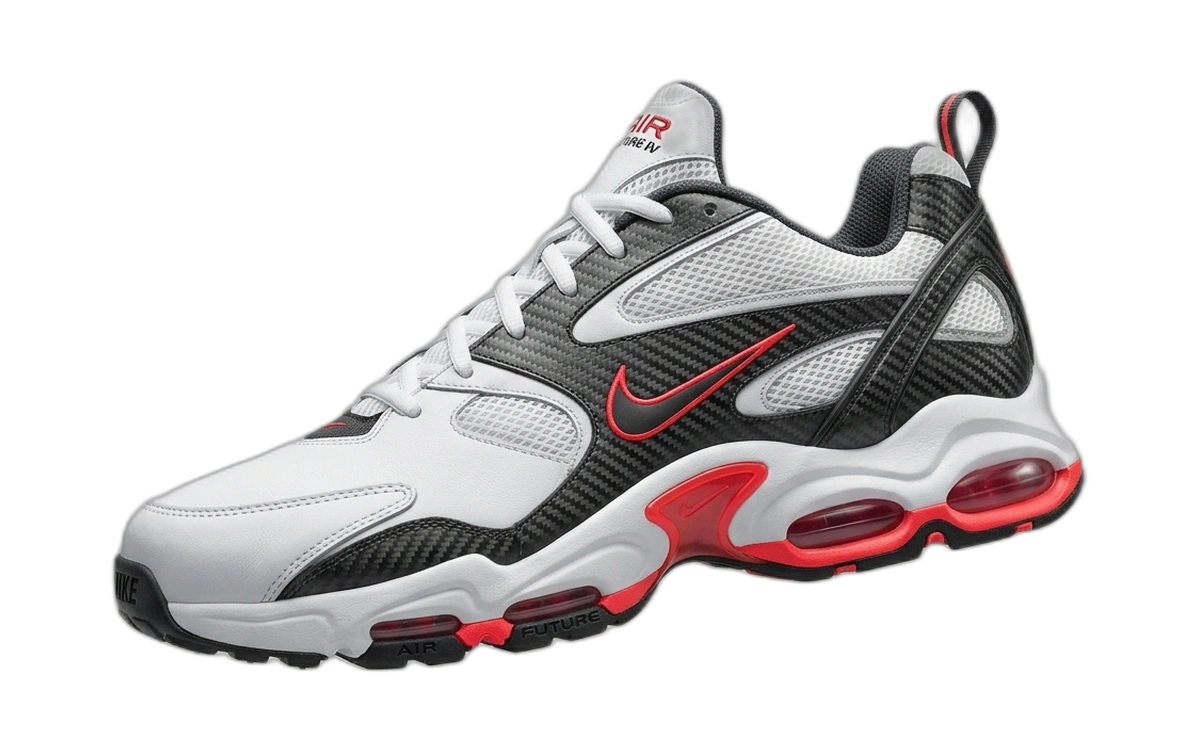
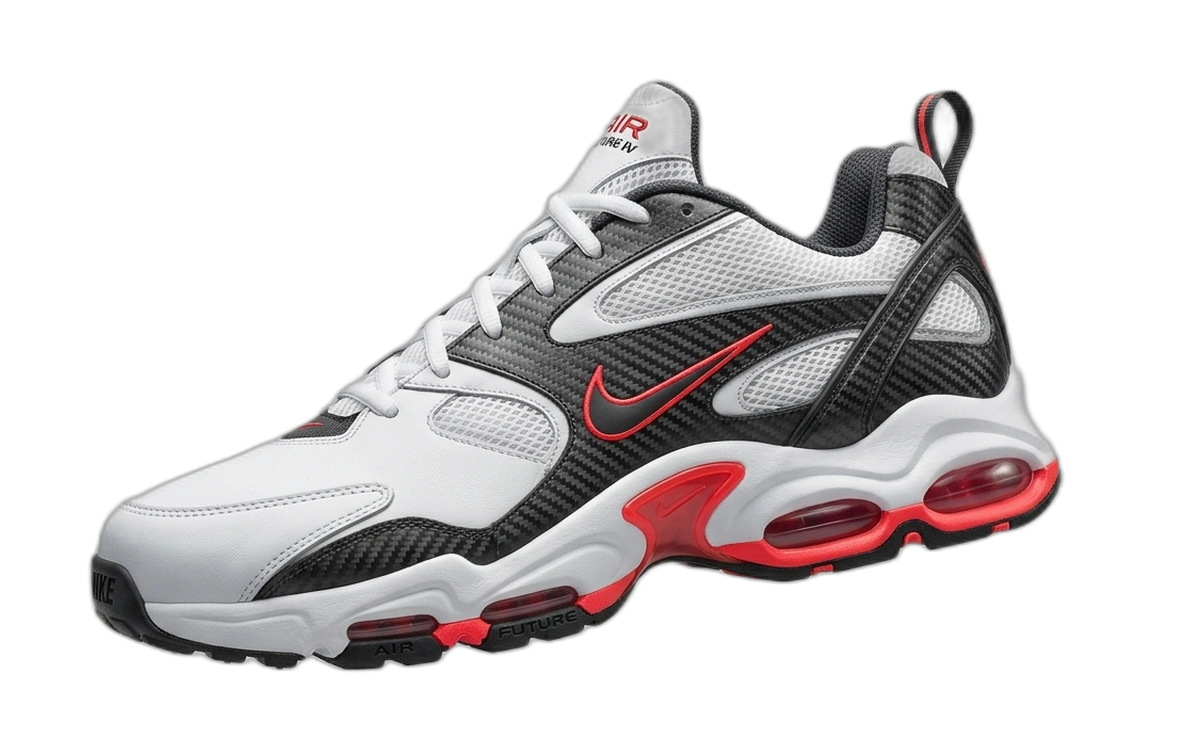
fix(sneakers): align optical horizontal center of all sneakers to exact 50% midpoint

Changed region(s): [[0.0617, 0.092, 0.925, 0.92]]

diff --git a/FashionStore/wwwroot/js/sneaker-vault.js b/FashionStore/wwwroot/js/sneaker-vault.js
@@ -20,7 +20,7 @@
             release: 'DECEMBER 2026',
             colorName: 'STORM GREY / INFRARED',
             swatches: ['#FFFFFF', '#CE1234', '#1F2024'],
-            image: '/images/sneakers/air-future-iv.webp'
+            image: '/images/sneakers/air-future-iv.webp?v=center_h_v27'
         },
         {
             id: 'snk-02',
@@ -34,7 +34,7 @@
             release: 'JANUARY 2027',
             colorName: 'DEEP BLUE / SONIC BLUE',
             swatches: ['#FFFFFF', '#0077D8', '#00E5FF'],
-            image: '/images/sneakers/air-future-xi.webp'
+            image: '/images/sneakers/air-future-xi.webp?v=center_h_v27'
         },
         {
             id: 'snk-03',
@@ -48,7 +48,7 @@
             release: 'FEBRUARY 2027',
             colorName: 'WHITE / ACID VOLT / BLACK',
             swatches: ['#FFFFFF', '#4EA819', '#15161A'],
-            image: '/images/sneakers/air-future-iii.webp'
+            image: '/images/sneakers/air-future-iii.webp?v=center_h_v27'
         },
         {
             id: 'snk-04',
@@ -62,7 +62,7 @@
             release: 'MARCH 2027',
             colorName: 'VIOLET CHROME / MIDNIGHT',
             swatches: ['#6D3AA6', '#B666FF', '#0D0E12'],
-            image: '/images/sneakers/air-future-v.webp'
+            image: '/images/sneakers/air-future-v.webp?v=center_h_v27'
         },
         {
             id: 'snk-05',
@@ -76,7 +76,7 @@
             release: 'APRIL 2027',
             colorName: 'DESERT SAND / GOLD CHROME',
             swatches: ['#F5E6CC', '#B9935A', '#FFD700'],
-            image: '/images/sneakers/air-future-i.webp'
+            image: '/images/sneakers/air-future-i.webp?v=center_h_v27'
         },
         {
             id: 'snk-06',
@@ -90,7 +90,7 @@
             release: 'MAY 2027',
             colorName: 'MAGMA RED / CARBON BLACK',
             swatches: ['#FF2A2A', '#2E3038', '#111215'],
-            image: '/images/sneakers/air-future-ix.webp'
+            image: '/images/sneakers/air-future-ix.webp?v=center_h_v27'
         }
     ];
 
